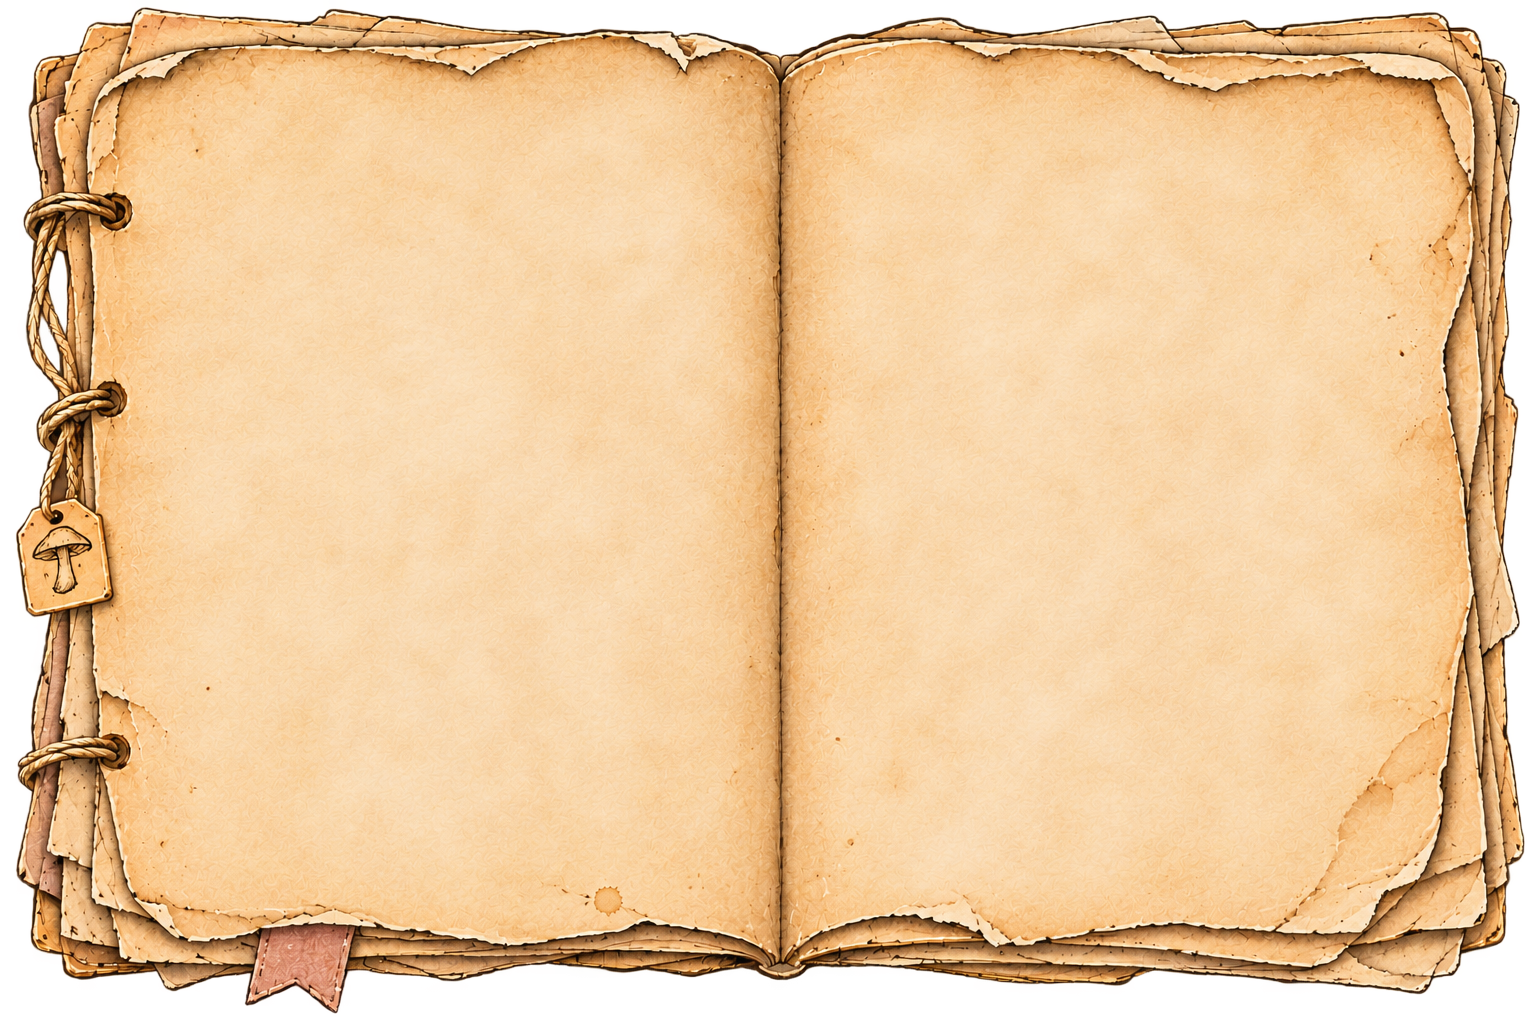
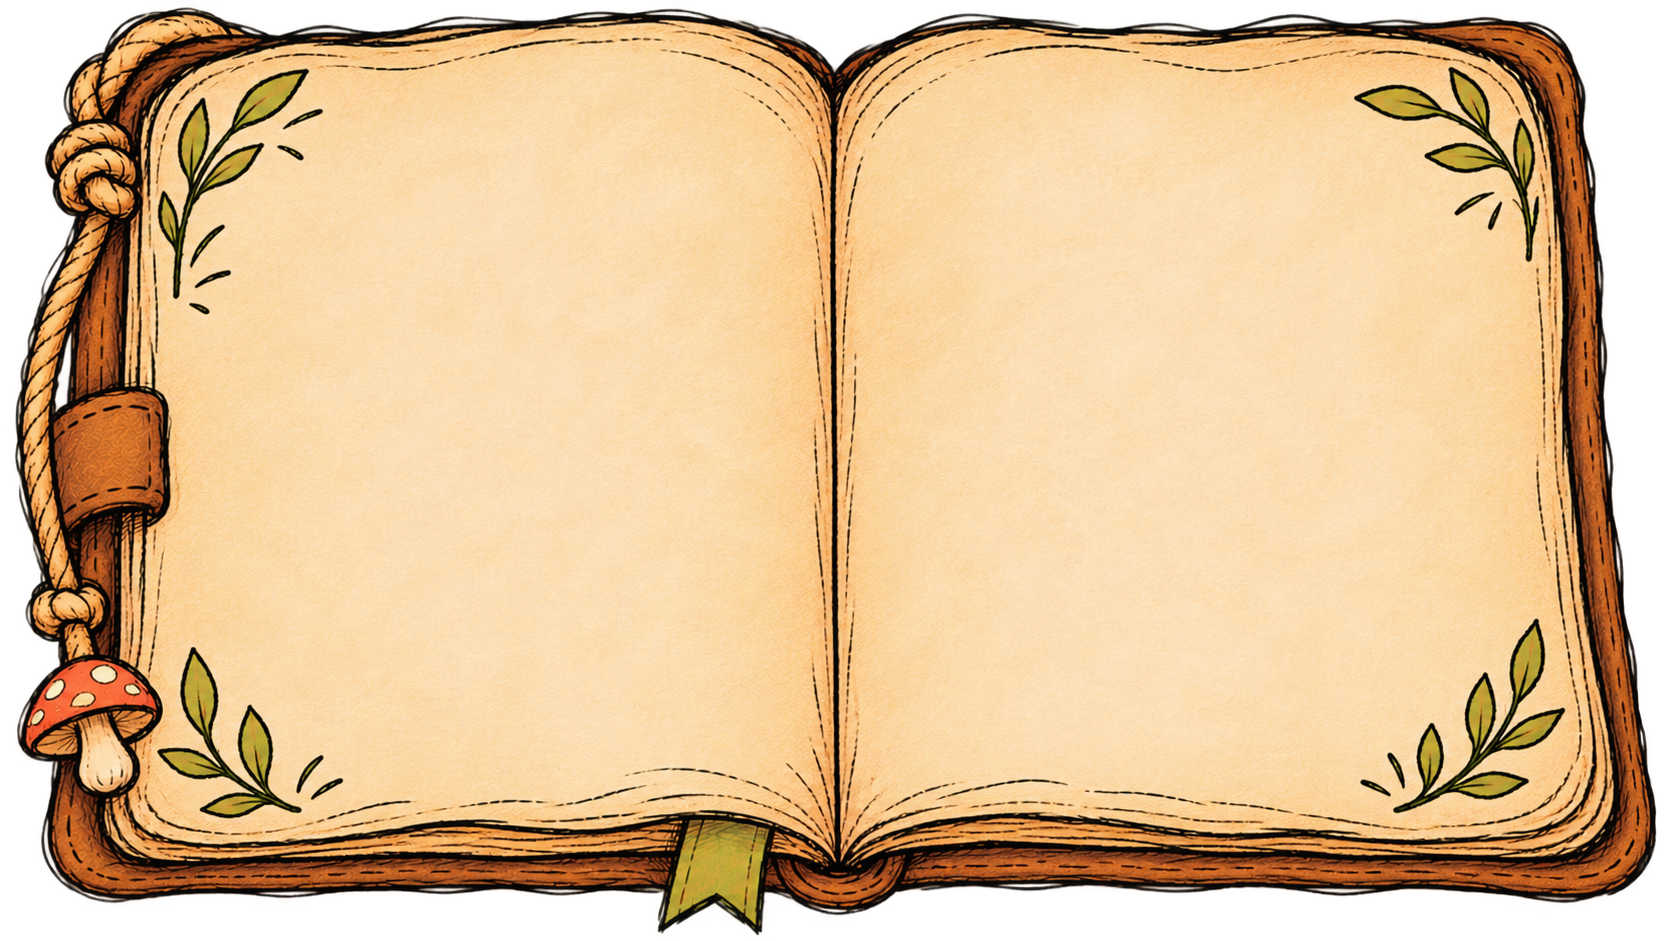
Add files via upload

diff --git a/index.html b/index.html
@@ -1,9 +1,13 @@
 <!doctype html><html lang="en"><head><meta charset="utf-8"><meta name="viewport" content="width=device-width,initial-scale=1"><title>The Explorer’s Outpost</title><link href="https://fonts.googleapis.com/css2?family=Caveat:wght@500;600;700&family=Kalam:wght@400;700&family=Libre+Baskerville:wght@400;700&display=swap" rel="stylesheet"><style>
-*{box-sizing:border-box}html,body{margin:0;width:100%;height:100%;overflow:hidden;background:#10271f}#world{position:fixed;inset:0;width:100%;height:100%;border:0}.journal-button{position:fixed;right:18px;top:16px;z-index:3;padding:10px 18px;border:1px solid #c7a977;border-radius:8px 12px 9px 11px;background:#18372de8;color:#f7e6c4;font:700 25px Caveat,cursive;cursor:pointer;box-shadow:0 5px 22px #0007}.veil{position:fixed;inset:0;background:#08180fba;display:none;align-items:center;justify-content:center;z-index:10;padding:12px}.veil.open{display:flex}.book-shell{width:min(96vw,1160px);height:min(88vh,760px);aspect-ratio:3/2;position:relative}.book{height:100%;width:100%;display:grid;grid-template-columns:1fr 1fr;padding:7.5% 7.3% 7.8% 12.3%;gap:5.5%;background:url('travelers-journal-art.png') center/100% 100% no-repeat;filter:drop-shadow(0 14px 25px #0008)}.page{overflow-y:auto;overflow-x:hidden;scrollbar-color:#ad8e61 transparent;scrollbar-width:thin;position:relative;color:#403123;padding:10px 12px 24px;background:transparent;border-radius:5px;box-shadow:none;min-height:0}.left{transform:rotate(-.25deg)}.right{transform:rotate(.25deg)}.eyebrow{font:700 11px Georgia,serif;letter-spacing:.13em;text-transform:uppercase;color:#826447}.script,h2,.entry strong,.duck-name,.color-clue-title{font-family:Caveat,cursive}h1{font:700 clamp(32px,4vw,52px)/.95 Caveat,cursive;margin:15px 0 12px}h2{font:700 40px/1 Caveat,cursive;margin:12px 0 18px}p{font:14px/1.7 'Libre Baskerville',Georgia,serif}.note{font:600 27px/1.2 Caveat,cursive;transform:rotate(-2deg)}.rule{border-top:1px solid #ab8b61;margin:22px 0}.foot{font:600 23px Caveat,cursive;margin-top:35px}.pressed{font-size:40px;opacity:.35}.tabs{display:flex;flex-wrap:wrap;gap:5px;margin:12px 0 20px}.tab{font:700 21px Caveat,cursive;background:#d3b587;border:1px solid #95754e;border-radius:4px 8px 5px 7px;color:#3e3022;padding:6px 10px;cursor:pointer}.tab[aria-selected=true]{background:#49624b;color:#fff2d7}.entry{border-top:1px solid #b79b71;padding:14px 0 8px;margin:14px 0}.entry strong{font-size:27px;line-height:1.1}.entry p{margin:7px 0 12px}.duck-clue,.color-clue{border-bottom:1px dashed #b79d78;padding:12px 0}.duck-check{display:flex;align-items:flex-start;gap:10px}.duck-name,.color-clue-title{font-size:25px;font-weight:700}.duck-description{font-size:12px;line-height:1.65;margin:3px 0 8px}.duck-status,.clue-count,.duck-progress,.color-instruction{font:600 19px Caveat,cursive;color:#655037}.object-checks{display:flex;gap:12px;flex-wrap:wrap;margin:8px 0}.object-check{font:600 19px Caveat,cursive;display:inline-flex;align-items:center;gap:5px}.page input[type=checkbox]{appearance:none;width:20px;height:20px;flex-shrink:0;border:2px solid #513e2a;border-radius:2px 4px 3px 3px;background:#f9e7c7;cursor:pointer;position:relative;margin:3px 0 0;transform:rotate(-3deg)}.page input[type=checkbox]:checked:after{content:'✓';position:absolute;left:1px;top:-9px;font:700 29px Caveat,cursive;color:#31533b}.found .duck-name{text-decoration:line-through;text-decoration-thickness:1px}.case-closed{margin:18px 0;padding:10px 12px;border:1px dashed #94734c;font:600 22px/1.2 Caveat,cursive;color:#35523b}.case-closed[hidden]{display:none}.close{position:absolute;right:0;top:-38px;z-index:4;border:1px solid #d2b581;border-radius:50%;background:#203c30;color:#f5e5c5;width:36px;height:36px;font-size:25px;cursor:pointer}.tab:focus-visible,.close:focus-visible,.journal-button:focus-visible,input:focus-visible{outline:3px solid #b87924;outline-offset:2px}
+*{box-sizing:border-box}html,body{margin:0;width:100%;height:100%;overflow:hidden;background:#10271f}#world{position:fixed;inset:0;width:100%;height:100%;border:0}.journal-button{position:fixed;right:18px;top:16px;z-index:3;padding:10px 18px;border:1px solid #c7a977;border-radius:8px 12px 9px 11px;background:#18372de8;color:#f7e6c4;font:700 25px Caveat,cursive;cursor:pointer;box-shadow:0 5px 22px #0007}.veil{position:fixed;inset:0;background:#08180fba;display:none;align-items:center;justify-content:center;z-index:10;padding:12px}.veil.open{display:flex}.book-shell{width:min(96vw,1160px);height:min(88vh,760px);aspect-ratio:3/2;position:relative}.book{height:100%;width:100%;display:grid;grid-template-columns:1fr 1fr;padding:7.5% 7.3% 7.8% 12.3%;gap:5.5%;background:url('travelers-journal-no-tabs.png') center/100% 100% no-repeat;filter:drop-shadow(0 14px 25px #0008)}.page{overflow-y:auto;overflow-x:hidden;scrollbar-color:#ad8e61 transparent;scrollbar-width:thin;position:relative;color:#403123;padding:10px 12px 24px;background:transparent;border-radius:5px;box-shadow:none;min-height:0}.left{transform:rotate(-.25deg)}.right{transform:rotate(.25deg)}.eyebrow{font:700 11px Georgia,serif;letter-spacing:.13em;text-transform:uppercase;color:#826447}.script,h2,.entry strong,.duck-name,.color-clue-title{font-family:Caveat,cursive}h1{font:700 clamp(32px,4vw,52px)/.95 Caveat,cursive;margin:15px 0 12px}h2{font:700 40px/1 Caveat,cursive;margin:12px 0 18px}p{font:14px/1.7 'Libre Baskerville',Georgia,serif}.note{font:600 27px/1.2 Caveat,cursive;transform:rotate(-2deg)}.rule{border-top:1px solid #ab8b61;margin:22px 0}.foot{font:600 23px Caveat,cursive;margin-top:35px}.pressed{font-size:40px;opacity:.35}.tabs{display:flex;flex-wrap:wrap;gap:5px;margin:12px 0 20px}.tab{font:700 21px Caveat,cursive;background:#d3b587;border:1px solid #95754e;border-radius:4px 8px 5px 7px;color:#3e3022;padding:6px 10px;cursor:pointer}.tab[aria-selected=true]{background:#49624b;color:#fff2d7}.entry{border-top:1px solid #b79b71;padding:14px 0 8px;margin:14px 0}.entry strong{font-size:27px;line-height:1.1}.entry p{margin:7px 0 12px}.duck-clue,.color-clue{border-bottom:1px dashed #b79d78;padding:12px 0}.duck-check{display:flex;align-items:flex-start;gap:10px}.duck-name,.color-clue-title{font-size:25px;font-weight:700}.duck-description{font-size:12px;line-height:1.65;margin:3px 0 8px}.duck-status,.clue-count,.duck-progress,.color-instruction{font:600 19px Caveat,cursive;color:#655037}.object-checks{display:flex;gap:12px;flex-wrap:wrap;margin:8px 0}.object-check{font:600 19px Caveat,cursive;display:inline-flex;align-items:center;gap:5px}.page input[type=checkbox]{appearance:none;width:20px;height:20px;flex-shrink:0;border:2px solid #513e2a;border-radius:2px 4px 3px 3px;background:#f9e7c7;cursor:pointer;position:relative;margin:3px 0 0;transform:rotate(-3deg)}.page input[type=checkbox]:checked:after{content:'✓';position:absolute;left:1px;top:-9px;font:700 29px Caveat,cursive;color:#31533b}.found .duck-name{text-decoration:line-through;text-decoration-thickness:1px}.case-closed{margin:18px 0;padding:10px 12px;border:1px dashed #94734c;font:600 22px/1.2 Caveat,cursive;color:#35523b}.case-closed[hidden]{display:none}.close{position:absolute;right:0;top:-38px;z-index:4;border:1px solid #d2b581;border-radius:50%;background:#203c30;color:#f5e5c5;width:36px;height:36px;font-size:25px;cursor:pointer}.tab:focus-visible,.close:focus-visible,.journal-button:focus-visible,input:focus-visible{outline:3px solid #b87924;outline-offset:2px}
 .world-intro{font-style:italic}.world-found-label{font:700 20px Caveat,cursive;color:#755738;margin-top:10px}.world-found{font-style:italic;margin-top:3px!important}.world-ending{font:600 23px Caveat,cursive;text-align:center;color:#755738;margin:26px 0}
 @media(max-width:700px){.book-shell{width:min(98vw,500px);height:min(89vh,760px)}.book{display:block;padding:13% 13% 14% 17%;background-size:100% 100%;overflow-y:auto}.page{overflow:visible;margin:0 0 16px;padding:12px 10px;transform:none;background:#f0ddbaf5}.left{padding-bottom:22px;border-bottom:2px dashed #ab906b}.journal-button{font-size:22px;top:10px;right:10px}.close{top:-32px}h1{font-size:43px}}
 .field-intro{font-style:italic;color:#66503b}.field-label{font:700 10px Georgia,serif;letter-spacing:.09em;color:#826447;margin-bottom:7px}.field-entry p{font-style:italic;margin:9px 0}.field-entry strong{display:block}
 
+/* Sketchy ink lettering for the desktop journal. */
+@media(min-width:701px){.book .page h1,.book .page h2,.book .page .tab,.book .page .entry strong{font-family:Kalam,Caveat,cursive}.book .page h1{font-size:clamp(29px,3.5vw,45px)}.book .page h2{font-size:35px}.book .page .tab{font-size:17px}.book .page .entry strong{font-size:23px}}
+/* Mobile retains the approved original illustrated journal. */
+@media(max-width:700px){.book{background-image:url('travelers-journal-art.png')}}
 /* Explorer Passport — independent of the Traveler's Journal */
 .passport-button{position:fixed;left:18px;top:16px;z-index:3;padding:10px 17px;border:1px solid #c7a977;border-radius:9px;background:#18372de8;color:#f7e6c4;font:700 24px Caveat,cursive;cursor:pointer;box-shadow:0 5px 22px #0007}
 .passport-veil{position:fixed;inset:0;z-index:20;background:#08180fba;display:none;align-items:center;justify-content:center;padding:16px}.passport-veil.open{display:flex}
